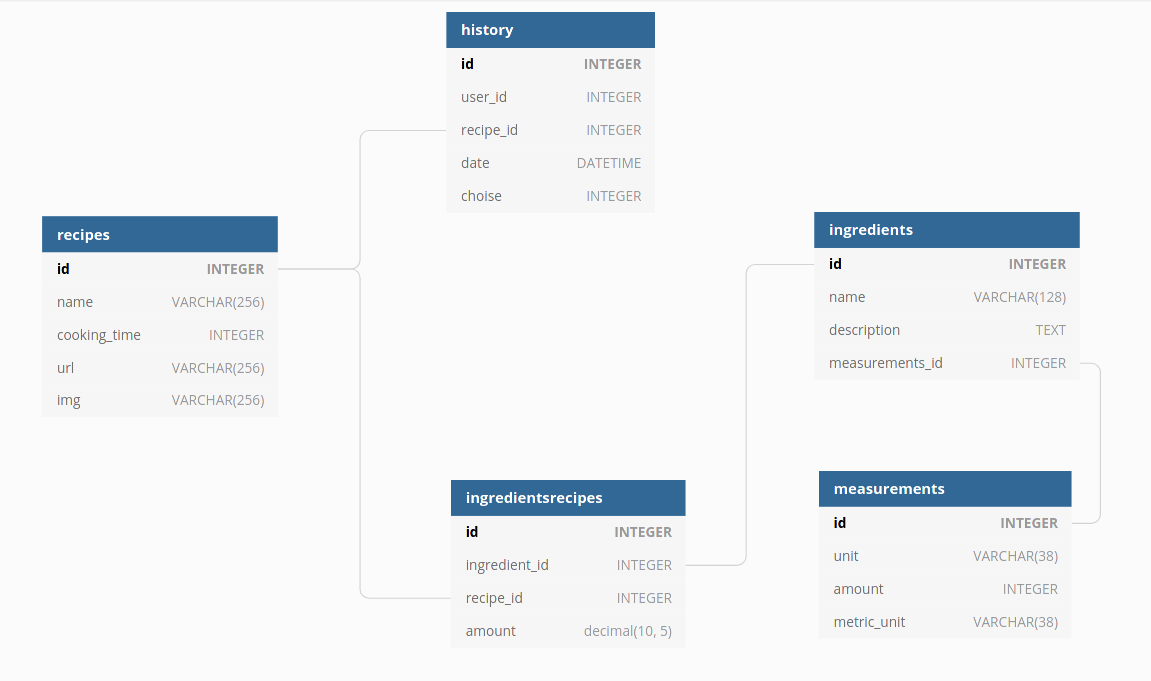
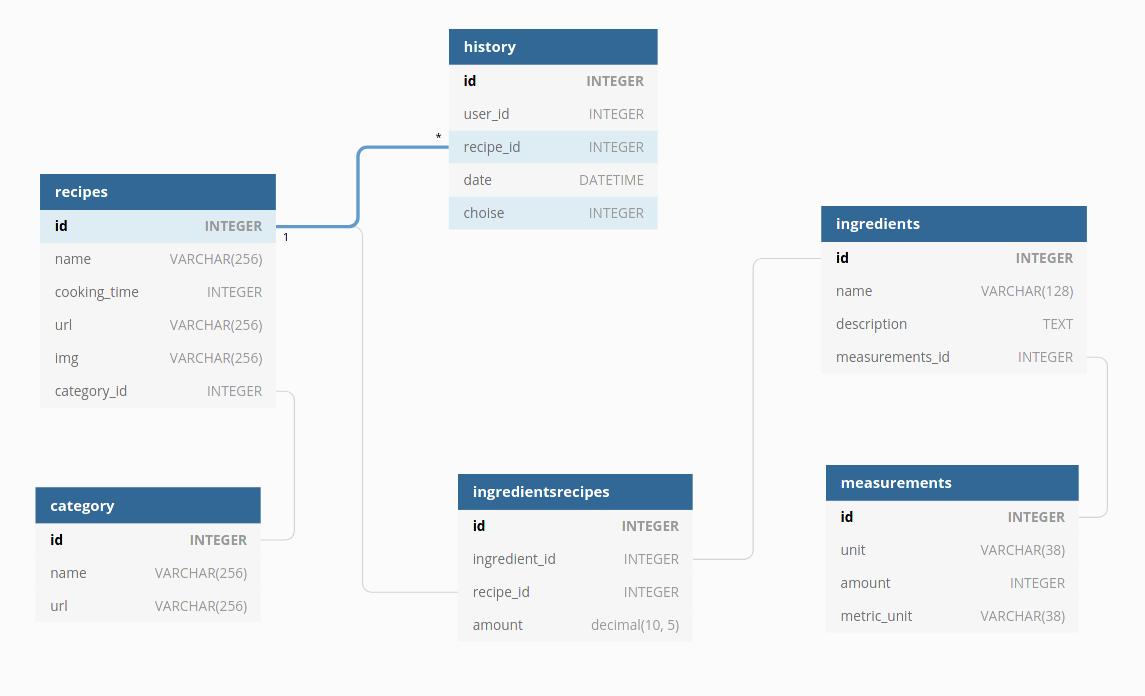
save data to db

diff --git a/service/scrape_service.py b/service/scrape_service.py
@@ -20,8 +20,6 @@ class ScrapeService:
         Args:
             url (str): full HTML link to a page of search results.'''
 
-    _path = '/'
-
     _db: DbService
 
     def __init__(self, deps: dict, url: str):
@@ -35,16 +33,9 @@ class ScrapeService:
         response = requests.get(url, headers=HEADERS)
         return response.status_code, response.content
 
-    @property
-    def path(self):
-        return self._path
-
-    @path.setter
-    def path(self, path: str):
-        self._path = path
-
     def save(self, data: List[dict], urls: List[str], category):
         to_save = []
+        to_save_relations = []
         try:
             for recipe_data in data:
                 if recipe_data["url"] not in urls:
@@ -52,18 +43,22 @@ class ScrapeService:
                     to_save.append(recipe_data)
                 else:
                     recipe = self._db.get_by_url(recipe_data["url"])
-                    recipe.categories.append(category)
-                    to_save.append(recipe_data)
+                    to_save_relations.append({
+                        "recipe_id": recipe.id,
+                        "category_id": category.id
+                    })
             if to_save:
                 self._db.save_recipes(to_save)
+            if to_save_relations:
+                self._db.save_recipes_categories(to_save_relations)
         except Exception as e:
             print(e)
 
     def get_articles(self):
         categories = self._db.get_all_categoties()
-        urls = self._db.get_all_urls()
         for cat in categories:
-            page = 21
+            urls = self._db.get_all_urls()
+            page = 1
             while True:
                 try:
                     code, content = self._request(

diff --git a/service/parser.py b/service/parser.py
@@ -1,10 +1,10 @@
 from bs4 import BeautifulSoup
 from typing import List
 
+
 class Parser:
     def _get_soup(self, content: str) -> BeautifulSoup:
         return BeautifulSoup(content.decode('utf-8'), 'html.parser')
-
 
     def _get_ingredients(self, ingredients_nodes: List[BeautifulSoup]) -> List[dict]:
         ingredients = []
@@ -15,7 +15,6 @@ class Parser:
             })
 
         return ingredients
-
 
     def _get_recipe(self, article: BeautifulSoup) -> dict:
         recipe = None
@@ -31,17 +30,15 @@ class Parser:
                     'ul', {'class': 'params-detail-lst row'}).find('span', {'class': 'duration'}).text,
                 'ingredients': self._get_ingredients(
                     article.find('ul', {'class': 'ingredients-lst'}
-                                ).findAll('span', {'itemprop': 'recipeIngredient'}))
+                                 ).findAll('span', {'itemprop': 'recipeIngredient'}))
             }
         except:
             pass
         return recipe
 
-
     def _get_item_by_class(self, ingredient: BeautifulSoup, class_name: str) -> str:
         item = ingredient.find('span', {'class': class_name})
         return item.text if item else ''
-
 
     def _get_recipes(self, soup: BeautifulSoup) -> List[dict]:
         recipes = []
@@ -52,7 +49,6 @@ class Parser:
                 recipes.append(recipe)
 
         return recipes
-
 
     def get_data(self, content: str) -> List[dict]:
         soup_obj = self._get_soup(content)

diff --git a/service/db_service.py b/service/db_service.py
@@ -1,11 +1,8 @@
 from sqlalchemy import desc
-from  sqlalchemy.sql.expression import func
+from sqlalchemy.sql.expression import func
 from typing import List
-from model.models import Recipe, Ingredient, History, Category
-# import logging
+from model.models import Recipe, Ingredient, History, Category, recipes_categories_table
 
-# logging.basicConfig()
-# logging.getLogger('sqlalchemy.engine').setLevel(logging.INFO)
 
 class DbService:
     def __init__(self, session):
@@ -27,6 +24,12 @@ class DbService:
 
         self._session.commit()
 
+    def save_recipes_categories(self, rows: List[dict]):
+        for row in rows:
+            stmt = recipes_categories_table.insert().values(**row)
+            self._session.execute(stmt)
+        self._session.commit()
+
     def get_all_urls(self):
         return [*map(
             lambda row: row[0],
@@ -38,9 +41,9 @@ class DbService:
 
     def get_random_recipe(self, category):
         return self._session.query(Recipe).order_by(func.rand()).first()
-    
+
     def get_all_categoties(self):
         return self._session.query(Category).all()
-    
-    def get_by_url(sqlf, url):
+
+    def get_by_url(self, url):
         return self._session.query(Recipe).where(Recipe.url == url).first()

diff --git a/scrape.py b/scrape.py
@@ -3,6 +3,7 @@ from service.parser import Parser
 from service.db_service import DbService
 from base import Session
 
+
 BASE_API_SEARCH_URL = 'https://menunedeli.ru'
 
 session = Session()
@@ -13,20 +14,6 @@ scraper = ScrapeService({
     "db": DbService(session)
 }, BASE_API_SEARCH_URL)
 
-# path_list = [
-#     '/zavtrak','/chto-prigotovit-na-obed-i-uzhin', '/chto-prigotovit-na-poldnik']
-
-# categories = db.get_all_categoties()
-
 print(len(db.get_all_recipes()))
 scraper.get_articles()
 print(len(db.get_all_recipes()))
-
-    
-# scraper.path = '/zavtrak'
-# scraper.get_pages_links()
-# scraper.set_path('/obed')
-# scraper.get_articles()
-
-# scraper.set_path('/uzhin')
-# scraper.get_articles()

diff --git a/create_db.py b/create_db.py
@@ -7,10 +7,9 @@ Base.metadata.create_all(engine)
 
 categories = [
     Category(url='zavtrak', name='Завтрак'),
-    Category(url='zavtrak', name='Завтрак'),
-    # Category(url='chto-prigotovit-na-obed-i-uzhin', name='Обед'),
-    # Category(url='chto-prigotovit-na-obed-i-uzhin', name='Ужин'),
-    # Category(url='chto-prigotovit-na-poldnik', name='Перекус'),
+    Category(url='chto-prigotovit-na-obed-i-uzhin', name='Обед'),
+    Category(url='chto-prigotovit-na-obed-i-uzhin', name='Ужин'),
+    Category(url='chto-prigotovit-na-poldnik', name='Перекус'),
 ]
 session = Session()
 session.bulk_save_objects(categories)
